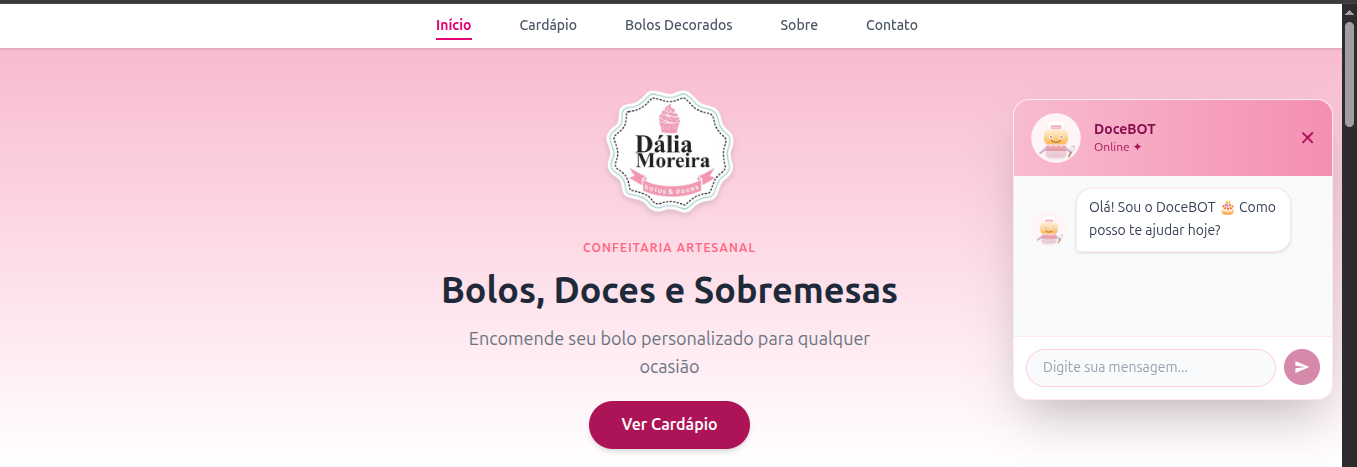
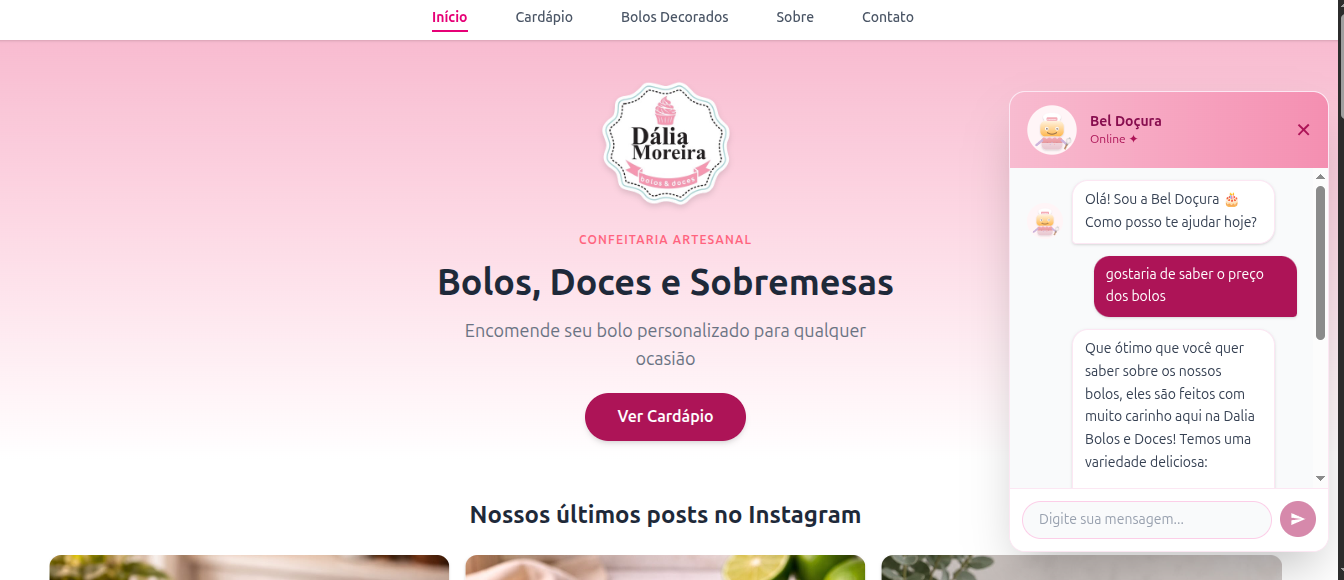
updated readme

Changed region(s): [[0.0, 0.0, 1.0, 1.0]]

diff --git a/README.md b/README.md
@@ -8,8 +8,8 @@
 
 *API REST · Painel Administrativo · Vitrine para Clientes*
 
-[![Backend CI](https://github.com/rodrigog3wconcept/dalia-cakes-web/actions/workflows/backend.yml/badge.svg)](https://github.com/rodrigog3wconcept/dalia-cakes-web/actions/workflows/backend.yml)
-[![Frontend CI](https://github.com/rodrigog3wconcept/dalia-cakes-web/actions/workflows/frontend.yml/badge.svg)](https://github.com/rodrigog3wconcept/dalia-cakes-web/actions/workflows/frontend.yml)
+[![Backend CI](https://github.com/lordrodrigoo/dalia-cakes-web/actions/workflows/backend.yml/badge.svg)](https://github.com/lordrodrigoo/dalia-cakes-web/actions/workflows/backend.yml)
+[![Frontend CI](https://github.com/lordrodrigoo/dalia-cakes-web/actions/workflows/frontend.yml/badge.svg)](https://github.com/lordrodrigoo/dalia-cakes-web/actions/workflows/frontend.yml)
 [![Coverage](https://img.shields.io/badge/coverage-100%25-brightgreen)](backend/README.md)
 [![Tests](https://img.shields.io/badge/tests-400%20passed-brightgreen)](backend/README.md)
 [![License: MIT](https://img.shields.io/badge/license-MIT-blue)](LICENSE)
@@ -106,7 +106,7 @@ O site puxa posts diretamente do Instagram e os organiza automaticamente por cat
 <div align="center">
   <img src="docs/screenshot/mobile/home.png" width="18%" alt="Home" />
   <img src="docs/screenshot/mobile/bolos_decorados.png" width="18%" alt="Bolos Decorados" />
-  <img src="docs/screenshot/mobile/chatbot_aberto.png" width="18%" alt="Chatbot" />
+  <img src="docs/screenshot/mobile/home_chatbot_aberto.png" width="18%" alt="Chatbot" />
   <img src="docs/screenshot/mobile/dashboard.png" width="18%" alt="Admin" />
   <img src="docs/screenshot/mobile/login.png" width="18%" alt="Login" />
 </div>
